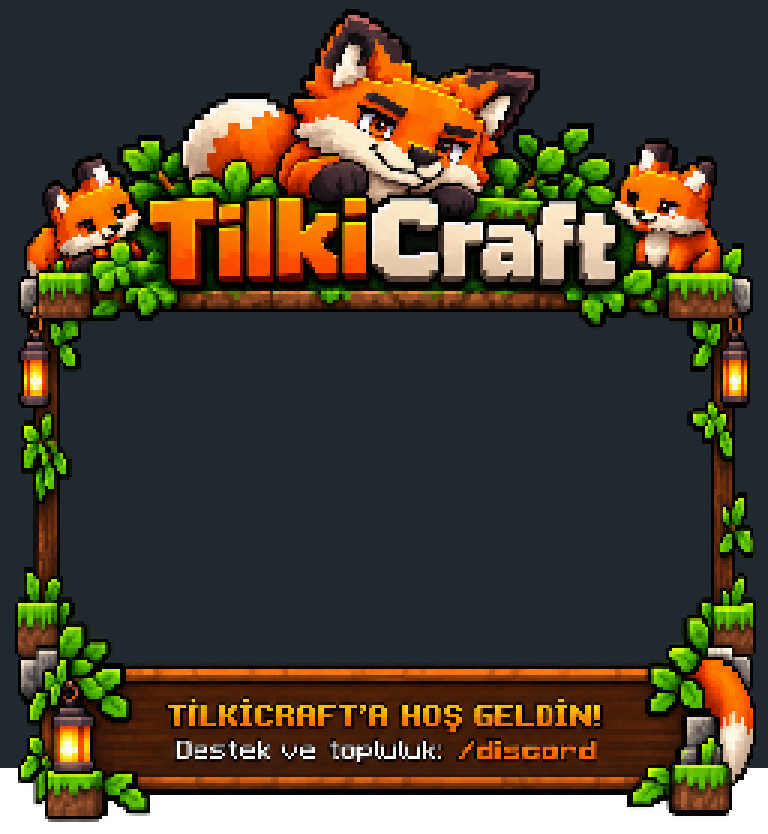
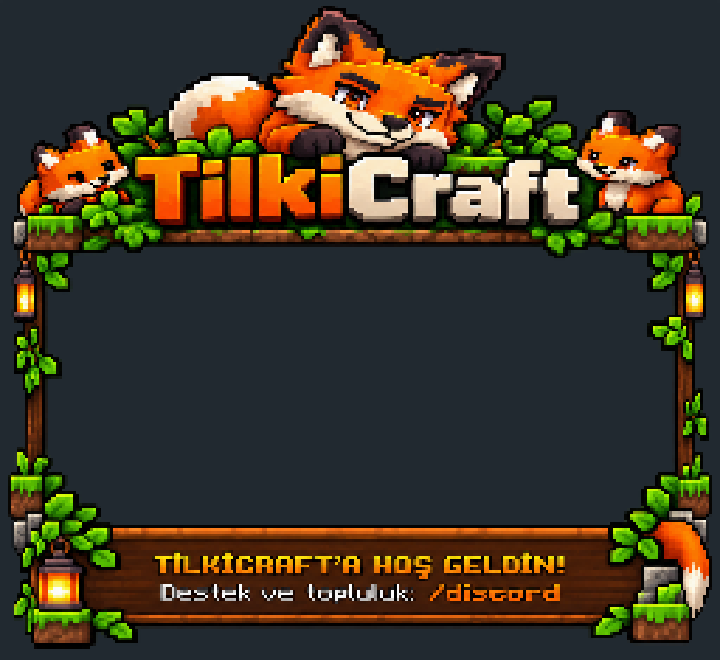
Fix responsive menus and simplify TAB branding

Changed region(s): [[0.0, 0.0, 1.0, 1.0]]

diff --git a/tools/BuildEscFrame.java b/tools/BuildEscFrame.java
@@ -11,27 +11,25 @@ import javax.imageio.ImageIO;
 class BuildEscFrame {
     static final Path ROOT = Path.of("resourcepack");
     static final String GLYPH = "\uEA03";
-    static final String BOTTOM_GLYPH = "\uEA06";
-    static final String REWIND_GLYPH = "\uEA0A";
 
     static BufferedImage frame(Path artwork) throws Exception {
         BufferedImage source = ImageIO.read(artwork.toFile());
         if (source == null) throw new IllegalArgumentException("Invalid frame PNG");
-        BufferedImage result = new BufferedImage(256, 278, BufferedImage.TYPE_INT_ARGB);
+        // Keep the logical glyph compact, but use the full 256px atlas width so
+        // the artwork stays crisp at large GUI scales without a larger layout.
+        BufferedImage result = new BufferedImage(256, 235, BufferedImage.TYPE_INT_ARGB);
         // Keep a 212-pixel clear center for the native 204-pixel-wide pause buttons.
         // Compress only the decorative side margins of the generated square artwork.
-        int left = source.getWidth() * 14 / 100;
-        int right = source.getWidth() * 86 / 100;
-        for (int y = 0; y < result.getHeight(); y++) {
-            int sy = y * source.getHeight() / result.getHeight();
-            for (int x = 0; x < result.getWidth(); x++) {
-                int sx;
-                if (x < 22) sx = x * left / 22;
-                else if (x < 234) sx = left + (x - 22) * (right - left) / 212;
-                else sx = right + (x - 234) * (source.getWidth() - right) / 22;
-                result.setRGB(x, y, source.getRGB(Math.min(sx, source.getWidth()-1), sy));
-            }
-        }
+        int left = source.getWidth() * 12 / 100;
+        int right = source.getWidth() * 88 / 100;
+        Graphics2D draw=result.createGraphics();
+        draw.setRenderingHint(RenderingHints.KEY_INTERPOLATION,RenderingHints.VALUE_INTERPOLATION_BICUBIC);
+        draw.setRenderingHint(RenderingHints.KEY_RENDERING,RenderingHints.VALUE_RENDER_QUALITY);
+        draw.setRenderingHint(RenderingHints.KEY_ALPHA_INTERPOLATION,RenderingHints.VALUE_ALPHA_INTERPOLATION_QUALITY);
+        draw.drawImage(source,0,0,15,235,0,0,left,source.getHeight(),null);
+        draw.drawImage(source,15,0,241,235,left,0,right,source.getHeight(),null);
+        draw.drawImage(source,241,0,256,235,right,0,source.getWidth(),source.getHeight(),null);
+        draw.dispose();
         // Force full-cell glyph width without adding visible side pixels.
         result.setRGB(0, 0, 0x01ffffff);
         result.setRGB(255, 0, 0x01ffffff);
@@ -41,39 +39,31 @@ class BuildEscFrame {
     public static void main(String[] args) throws Exception {
         if (args.length != 1) throw new IllegalArgumentException("ESC frame source PNG required");
         Path texture = ROOT.resolve("assets/tilkiinterface/textures/font/esc_frame.png");
-        Path bottomTexture = ROOT.resolve("assets/tilkiinterface/textures/font/esc_frame_bottom.png");
         Files.createDirectories(texture.getParent());
         BufferedImage image = frame(Path.of(args[0]));
-        BufferedImage top=new BufferedImage(256,256,BufferedImage.TYPE_INT_ARGB),bottom=new BufferedImage(256,22,BufferedImage.TYPE_INT_ARGB);
-        Graphics2D topGraphics=top.createGraphics();topGraphics.drawImage(image,0,0,null);topGraphics.dispose();
-        Graphics2D bottomGraphics=bottom.createGraphics();bottomGraphics.drawImage(image,0,0,256,22,0,256,256,278,null);bottomGraphics.dispose();
-        top.setRGB(255,0,0x01ffffff);bottom.setRGB(255,0,0x01ffffff);
-        ImageIO.write(top, "png", texture.toFile());ImageIO.write(bottom,"png",bottomTexture.toFile());
+        ImageIO.write(image, "png", texture.toFile());
+        Files.deleteIfExists(ROOT.resolve("assets/tilkiinterface/textures/font/esc_frame_bottom.png"));
         Path definition = ROOT.resolve("assets/tilkiinterface/font/ui.json");
         JsonObject font = JsonParser.parseString(Files.readString(definition)).getAsJsonObject();
         JsonArray providers = new JsonArray();
         for (JsonElement entry : font.getAsJsonArray("providers")) {
             JsonObject provider = entry.getAsJsonObject();
             if (provider.has("file") && provider.get("file").getAsString().contains("esc_frame")) continue;
-            if(provider.get("type").getAsString().equals("space") && provider.getAsJsonObject("advances").has(REWIND_GLYPH))provider.getAsJsonObject("advances").remove(REWIND_GLYPH);
             providers.add(entry);
         }
         JsonObject frameProvider = new JsonObject();
         frameProvider.addProperty("type", "bitmap");
         frameProvider.addProperty("file", "tilkiinterface:font/esc_frame.png");
-        frameProvider.addProperty("height", 256);
-        frameProvider.addProperty("ascent", 44);
+        frameProvider.addProperty("height", 220);
+        frameProvider.addProperty("ascent", 38);
         JsonArray chars = new JsonArray(); chars.add(GLYPH); frameProvider.add("chars", chars);
         providers.add(frameProvider);
-        JsonObject bottomProvider=new JsonObject();bottomProvider.addProperty("type","bitmap");bottomProvider.addProperty("file","tilkiinterface:font/esc_frame_bottom.png");bottomProvider.addProperty("height",22);bottomProvider.addProperty("ascent",-212);
-        JsonArray bottomChars=new JsonArray();bottomChars.add(BOTTOM_GLYPH);bottomProvider.add("chars",bottomChars);providers.add(bottomProvider);
-        JsonObject rewindProvider=new JsonObject();rewindProvider.addProperty("type","space");JsonObject advances=new JsonObject();advances.addProperty(REWIND_GLYPH,-257);rewindProvider.add("advances",advances);providers.add(rewindProvider);
         font.add("providers", providers);
         Files.writeString(definition, font.toString());
         for (String lang : new String[]{"tr_tr", "en_us", "en_gb"}) {
             Path path = ROOT.resolve("assets/minecraft/lang/"+lang+".json");
             JsonObject translation = JsonParser.parseString(Files.readString(path)).getAsJsonObject();
-            translation.addProperty("menu.game", GLYPH+REWIND_GLYPH+BOTTOM_GLYPH);
+            translation.addProperty("menu.game", GLYPH);
             Files.writeString(path, translation.toString());
         }
         Path zip = Path.of("dist/TilkiInterface-ResourcePack.zip");
@@ -86,10 +76,10 @@ class BuildEscFrame {
         }
         String hash = HexFormat.of().formatHex(MessageDigest.getInstance("SHA-1").digest(Files.readAllBytes(zip)));
         Files.writeString(Path.of("dist/resourcepack-sha1.txt"), hash+"\n");
-        BufferedImage preview = new BufferedImage(768, 834, BufferedImage.TYPE_INT_ARGB);
+        BufferedImage preview = new BufferedImage(720, 660, BufferedImage.TYPE_INT_ARGB);
         Graphics2D g = preview.createGraphics();
-        g.setColor(new Color(33, 41, 48)); g.fillRect(0, 0, 768, 768);
-        g.drawImage(image, 0, 0, 768, 834, null);
+        g.setColor(new Color(33, 41, 48)); g.fillRect(0, 0, 720, 660);
+        g.drawImage(image, 0, 0, 720, 660, null);
         g.dispose();
         ImageIO.write(preview, "png", Path.of("art/esc-frame-preview.png").toFile());
         System.out.println("ESC frame pack SHA1: "+hash+"; "+Files.size(zip)+" bytes");

diff --git a/src/main/java/com/tilkicraft/ui/TilkiInterface.java b/src/main/java/com/tilkicraft/ui/TilkiInterface.java
@@ -20,7 +20,6 @@ public final class TilkiInterface extends JavaPlugin implements Listener, Comman
     private static final DateTimeFormatter DATE = DateTimeFormatter.ofPattern("dd/MM/yy HH:mm").withZone(ZoneId.of("Europe/Istanbul"));
     private final Map<UUID, Panel> panels = new HashMap<>();
     private final Set<UUID> ready = new HashSet<>(), hidden = new HashSet<>();
-    private final Properties tabFrameLayouts = new Properties();
     private Object authApi, economy, chat;
     private Method auth, unrestricted, placeholder, balance, rankPrefix, primaryGroup;
     private String url;
@@ -65,10 +64,6 @@ public final class TilkiInterface extends JavaPlugin implements Listener, Comman
     @Override public void onEnable() {
         migrateLegacyConfig();
         saveDefaultConfig();
-        try(var input=getResource("tab-frame-layouts.properties")) {
-            if(input==null)throw new IOException("missing resource");
-            tabFrameLayouts.load(input);
-        } catch(IOException ex) { getLogger().severe("TAB frame layouts could not be loaded: "+ex.getMessage()); }
         bindHooks();
         Bukkit.getScheduler().runTask(this,this::bindHooks);
         readPack();
@@ -145,6 +140,13 @@ public final class TilkiInterface extends JavaPlugin implements Listener, Comman
             getConfig().set("tab.footer",Arrays.asList(FrameGeometry.FOOTER.split("\n",-1)));
             getConfig().set("layout.tab-frame-v7",true);saveConfig();
         }
+        if(!getConfig().getBoolean("layout.tab-logo-v8",false)) {
+            getConfig().set("layout.previous-tab-header-v8",getConfig().getStringList("tab.header"));
+            getConfig().set("layout.previous-tab-footer-v8",getConfig().getStringList("tab.footer"));
+            getConfig().set("tab.header",Arrays.asList(FrameGeometry.HEADER.split("\n",-1)));
+            getConfig().set("tab.footer",Arrays.asList(FrameGeometry.FOOTER.split("\n",-1)));
+            getConfig().set("layout.tab-logo-v8",true);saveConfig();
+        }
         if (!getConfig().getBoolean("layout.compact-v2",false)) {
             List<String> lines=new ArrayList<>(getConfig().getStringList("sidebar.lines"));
             lines.removeIf(line->line.contains("{kills}") || line.contains("{deaths}"));
@@ -158,9 +160,9 @@ public final class TilkiInterface extends JavaPlugin implements Listener, Comman
             getConfig().set("sidebar.lines",lines); getConfig().set("layout.compact-v2",true); saveConfig();
         }
         String previousUrl=getConfig().getString("pack.url","");
-        if (previousUrl.startsWith("https://github.com/ardaacala/TilkiInterface/releases/download/") && !previousUrl.contains("/v1.4.6/")) {
-            getConfig().set("pack.url","https://github.com/ardaacala/TilkiInterface/releases/download/v1.4.6/TilkiInterface-ResourcePack.zip");
-            getConfig().set("pack.sha1","c78c9864583a6d7ed695198b20ff9bcccc4df6a7"); saveConfig();
+        if (previousUrl.startsWith("https://github.com/ardaacala/TilkiInterface/releases/download/") && !previousUrl.contains("/v1.4.7/")) {
+            getConfig().set("pack.url","https://github.com/ardaacala/TilkiInterface/releases/download/v1.4.7/TilkiInterface-ResourcePack.zip");
+            getConfig().set("pack.sha1","cbcc6a344983222c2e1671e24b73dfe815773280"); saveConfig();
         }
         url=getConfig().getString("pack.url","").trim(); hash=null;
         if (url.isEmpty()) return;
@@ -246,9 +248,7 @@ public final class TilkiInterface extends JavaPlugin implements Listener, Comman
             }
             Map<String,String> values=values(player);
             if (getConfig().getBoolean("tab.enabled",true)) {
-                int visible=(int)Bukkit.getOnlinePlayers().stream().filter(player::canSee).count();
-                int columns=FrameGeometry.columns(visible),rows=FrameGeometry.rows(visible);
-                values.put("tab-frame",ready.contains(id)?"§f"+tabFrameLayouts.getProperty(columns+"."+rows,""):"");
+                values.put("tab-logo",ready.contains(id)?"§f"+(char)0xea02:"");
                 String header=String.join("\n",getConfig().getStringList("tab.header"));
                 String footer=String.join("\n",getConfig().getStringList("tab.footer"));
                 if (header.isEmpty()) header=FrameGeometry.HEADER;

diff --git a/src/test/java/com/tilkicraft/ui/FrameGeometryTest.java b/src/test/java/com/tilkicraft/ui/FrameGeometryTest.java
@@ -5,12 +5,9 @@ import static org.junit.jupiter.api.Assertions.*;
 class FrameGeometryTest {
     @Test void tabFrameHasItsOwnSpaceAboveEveryLabel() {
         String header=FrameGeometry.HEADER;
-        assertTrue(header.startsWith("{tab-frame}"));
+        assertTrue(header.startsWith("{tab-logo}"));
         int titleLine=header.substring(0,header.indexOf("TILKICRAFT")).split("\n",-1).length-1;
         assertTrue(titleLine*FrameGeometry.TAB_LINE_HEIGHT>=FrameGeometry.TAB_LOGO_HEIGHT);
         assertTrue(FrameGeometry.FOOTER.isEmpty());
-        assertEquals(1,FrameGeometry.columns(20));assertEquals(20,FrameGeometry.rows(20));
-        assertEquals(2,FrameGeometry.columns(21));assertEquals(11,FrameGeometry.rows(21));
-        assertEquals(4,FrameGeometry.columns(80));assertEquals(20,FrameGeometry.rows(80));
     }
 }

diff --git a/src/main/java/com/tilkicraft/ui/FrameGeometry.java b/src/main/java/com/tilkicraft/ui/FrameGeometry.java
@@ -1,11 +1,9 @@
 package com.tilkicraft.ui;
 
-/** Header spacing leaves the logo clear while the frame extends around player rows. */
+/** A centered logo with enough header space to keep it clear of player rows. */
 final class FrameGeometry {
     static final int TAB_LOGO_HEIGHT=52, TAB_LINE_HEIGHT=9;
-    static final String HEADER="{tab-frame}\n\n\n\n\n\n&6&lTILKICRAFT &8┃ &f{online}/{max}";
+    static final String HEADER="{tab-logo}\n\n\n\n\n\n&6&lTILKICRAFT &8┃ &f{online}/{max}";
     static final String FOOTER="";
-    static int columns(int players) { return Math.max(1,Math.min(4,(players+19)/20)); }
-    static int rows(int players) { int bounded=Math.max(1,Math.min(80,players)),columns=columns(bounded);return (bounded+columns-1)/columns; }
     private FrameGeometry() {}
 }

diff --git a/tools/BuildLogoAssets.java b/tools/BuildLogoAssets.java
@@ -44,6 +44,10 @@ class BuildLogoAssets {
   try(var files=Files.list(textures)) {
    for(Path file:files.filter(p->p.getFileName().toString().matches("(sidebar_frame.*|tab_.*)\\.png")&&!p.getFileName().toString().equals("tab_logo.png")).toList())Files.delete(file);
   }
+  Path rejectedFrames=textures.resolve("tab_frame");
+  if(Files.isDirectory(rejectedFrames))try(var files=Files.walk(rejectedFrames)) {
+   for(Path file:files.sorted(java.util.Comparator.reverseOrder()).toList())Files.delete(file);
+  }
   Path hd=textures.resolve("hd");
   if(Files.isDirectory(hd)) {
    try(var files=Files.list(hd)) {for(Path file:files.toList())Files.delete(file);}

diff --git a/README.md b/README.md
@@ -4,12 +4,12 @@ TilkiCraft logosu ve turuncu/koyu kahve temasıyla Spigot **1.21.4**, Java **21*
 
 ## Kurulum
 
-1. Sunucuyu durdur, eski `TilkiStatsHUD-*.jar` ve `TilkiInterface-*.jar` dosyalarını kaldır, `TilkiInterface-1.4.6.jar` dosyasını `plugins` klasörüne koy ve yeniden başlat. Eski `plugins/TilkiStatsHUD/config.yml` dosyası ilk açılışta `plugins/TilkiInterface/config.yml` yoluna kopyalanır. Resmî kaynak paketi bağlantısı otomatik güncellenir.
+1. Sunucuyu durdur, eski `TilkiStatsHUD-*.jar` ve `TilkiInterface-*.jar` dosyalarını kaldır, `TilkiInterface-1.4.7.jar` dosyasını `plugins` klasörüne koy ve yeniden başlat. Eski `plugins/TilkiStatsHUD/config.yml` dosyası ilk açılışta `plugins/TilkiInterface/config.yml` yoluna kopyalanır. Resmî kaynak paketi bağlantısı otomatik güncellenir.
 2. Oyuncu kaynak paketini kabul eder. ZIP GitHub'dan otomatik indirilir; sunucu klasörüne ZIP koymak gerekmez.
 3. AuthMe varsa panel yalnızca başarılı girişten sonra açılır. AuthMe yoksa normal açılır.
 4. `/tilkiui` veya `/istatistik`: paneli/üst şeridi aç-kapat. `/tilkiui reload`: yönetici ayar yenileme.
 
-Paket: https://github.com/ardaacala/TilkiInterface/releases/tag/v1.4.6
+Paket: https://github.com/ardaacala/TilkiInterface/releases/tag/v1.4.7
 
 ## Gösterilen bilgiler
 
@@ -80,8 +80,12 @@ ESC çerçevesinin alt kirişi bütün duraklatma menüsünü, “Bağlantıyı 
 
 TAB oyuncu listesi 1–80 görünür oyuncu için 1–4 sütun ve satır sayısına göre 42 farklı geometriden uygun olanı seçer. TilkiCraft logosu üst kirişe bağlıdır; orta alan şeffaftır. Paket üretim zincirinin son adımları `BuildOptionsTheme`, `BuildEscFrame` ve `BuildTabFrame` araçlarıdır. [ESC önizlemesi](art/esc-frame-preview.png) ile [TAB önizlemesi](art/tab-frame-preview.png) tasarım kontrolüdür.
 
+## 1.4.7 — Kompakt HD ESC çerçevesi ve sade TAB logosu
+
+ESC çerçevesi küçük GUI ölçeklerinde taşmayacak şekilde 240×220 mantıksal boyuta çekildi; 256 piksel atlas örneklemesiyle büyük GUI ölçeklerinde net kalır. Oyuncu sayısına göre büyüyen TAB çerçevesi kaldırıldı. TilkiCraft logosu oyuncu satırlarının üstünde, yazılara çarpmadan görünür. Kullanılmayan TAB atlasları çıkarıldığı için kaynak paketi yaklaşık 220 KB'a düştü.
+
 ## 1.4.6 — Üç tilkili ESC tasarımı ve HD logo
 
 ESC ekranında üç tilkili büyük TilkiCraft başlığı, fenerli ahşap yan raylar, yaprak/taş süsleri ve `/discord` bilgili alt panel kullanılır. Merkez şeffaftır; Minecraft düğmeleri, işlevleri ve oyuncunun seçtiği dil değişmeden burada çizilir. [ESC görsel kaynağı](art/esc-menu-frame-source.png) gönderilen konsepte göre imagegen ile şeffaf arayüz varlığına dönüştürüldü.
 
-[HD logo kaynağı](art/tilkicraft-hd-logo-source.png) beyaz zemini kenarlardan temizlenerek ESC dışındaki tam logo dokularında kullanılır. Üretim sırası: `BuildLogoAssets art/hud-fox-head.png art/tilkicraft-hd-logo-source.png`, `BuildOptionsTheme`, `BuildEscFrame art/esc-menu-frame-source.png`, ardından `BuildTabFrame art/esc-frame-source.png resourcepack/assets/tilkiinterface/textures/font/tab_logo.png`.
+[HD logo kaynağı](art/tilkicraft-hd-logo-source.png) beyaz zemini kenarlardan temizlenerek ESC dışındaki tam logo dokularında kullanılır. Üretim sırası: `BuildLogoAssets art/hud-fox-head.png art/tilkicraft-hd-logo-source.png`, `BuildOptionsTheme` ve `BuildEscFrame art/esc-menu-frame-source.png`.
